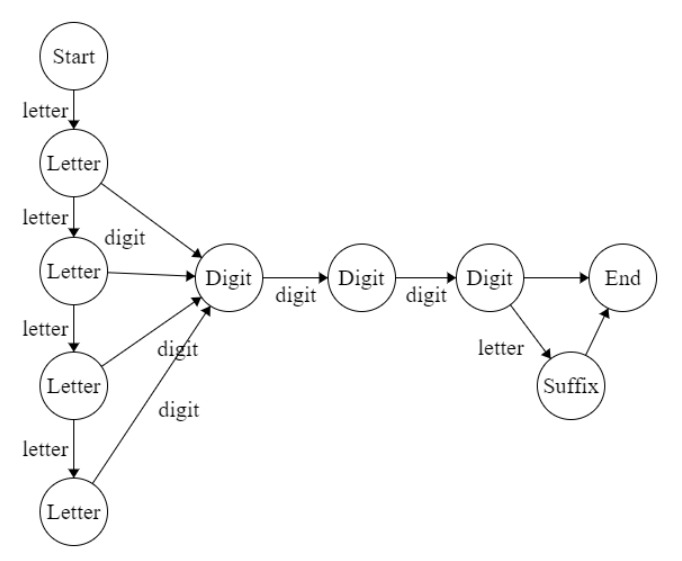
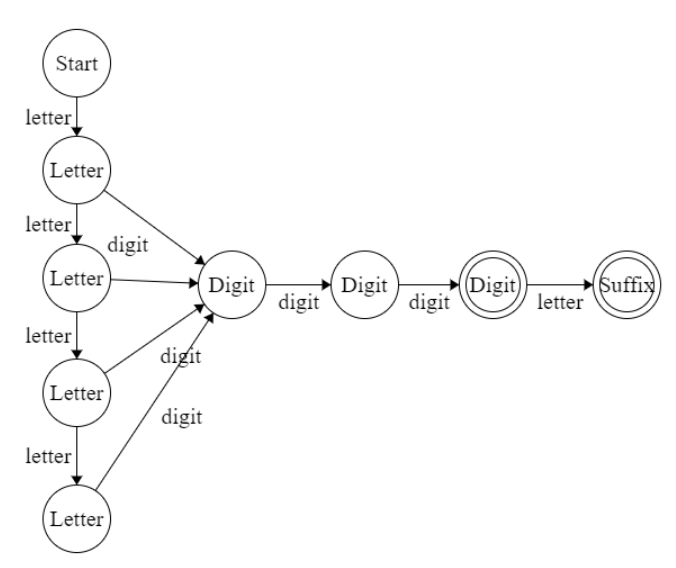
[Implementation][Test]
Finished implementing the CourseNameValidator and passed all unit tests
for the class.

Changed region(s): [[0.0311, 0.0303, 0.9941, 0.9697], [0.6834, 0.6061, 0.9009, 0.7576], [0.0932, 0.9697, 0.1243, 1.0]]

diff --git a/PackScheduler/src/edu/ncsu/csc216/pack_scheduler/course/validator/CourseNameValidator.java b/PackScheduler/src/edu/ncsu/csc216/pack_scheduler/course/validator/CourseNameValidator.java
@@ -4,6 +4,7 @@ package edu.ncsu.csc216.pack_scheduler.course.validator;
  * Checking whether a Course's Name is valid.
  * 
  * @author David Mond
+ * @author Audrey Fuelleman
  */
 public class CourseNameValidator {
 
@@ -19,14 +20,18 @@ public class CourseNameValidator {
 	 * Field to keep track of the current state.
 	 */
 	private String currentState = "I";
-	private InitialState stateInitial;
-	private LetterState stateLetter;
-	private DigitState stateDigit;
-	private SuffixState stateSuffix;
+	/** The initial state for a character in the Course's name */
+	private InitialState stateInitial = new InitialState();
+	/** The letter state for a character in the Course's name */
+	private LetterState stateLetter = new LetterState();
+	/** The digit state for a character in the Course's name */
+	private DigitState stateDigit = new DigitState();
+	/** The suffix state for a character in the Course's name */
+	private SuffixState stateSuffix = new SuffixState();
 	/**
 	 * Field to keep track if end is valid.
 	 */
-	private boolean validEndState;
+	private boolean validEndState = false;
 
 	/**
 	 * Constructor for CourseNameValidator.
@@ -50,7 +55,7 @@ public class CourseNameValidator {
 				} else if (Character.isDigit(name.charAt(i))) {
 					stateInitial.onDigit();
 				} else {
-					State.onOther();
+					stateInitial.onOther();
 				}
 			} else if ("L".equals(currentState)) {
 				if (Character.isLetter(name.charAt(i))) {
@@ -58,7 +63,7 @@ public class CourseNameValidator {
 				} else if (Character.isDigit(name.charAt(i))) {
 					stateLetter.onDigit();
 				} else {
-					State.onOther();
+					stateLetter.onOther();
 				}
 			} else if ("D".equals(currentState)) {
 				if (Character.isLetter(name.charAt(i))) {
@@ -66,7 +71,7 @@ public class CourseNameValidator {
 				} else if (Character.isDigit(name.charAt(i))) {
 					stateDigit.onDigit();
 				} else {
-					State.onOther();
+					stateDigit.onOther();
 				}
 			} else if ("S".equals(currentState)) {
 				if (Character.isLetter(name.charAt(i))) {
@@ -74,12 +79,11 @@ public class CourseNameValidator {
 				} else if (Character.isDigit(name.charAt(i))) {
 					stateSuffix.onDigit();
 				} else {
-					State.onOther();
+					stateSuffix.onOther();
 				}
 			}
-
 		}
-		return false;
+		return validEndState;
 	}
 
 	/**
@@ -95,24 +99,20 @@ public class CourseNameValidator {
 
 		/**
 		 * Checks to see if char is a letter.
-		 * 
-		 * @return boolean which represents if letter or not.
-		 * @throws InvalidTransitionException
+		 * @throws InvalidTransitionException throws exception for the next character being invalid.
 		 */
 		public abstract void onLetter() throws InvalidTransitionException;
 
 		/**
 		 * Checks to see if char is a digit.
-		 * 
-		 * @return boolean which represents if digit or not.
-		 * @throws InvalidTransitionException
+		 * @throws InvalidTransitionException throws exception for the next character being invalid.
 		 */
 		public abstract void onDigit() throws InvalidTransitionException;
 
 		/**
 		 * If not digit or letter than onOther.
 		 * 
-		 * @throws InvalidTransitionException Throws exception for invalid input.
+		 * @throws InvalidTransitionException throws exception for the next character being invalid.
 		 */
 		public void onOther() throws InvalidTransitionException {
 			throw new InvalidTransitionException("Course name can only contain letters and digits.");
@@ -142,10 +142,10 @@ public class CourseNameValidator {
 		/**
 		 * Checks to see if char is a digit.
 		 * 
-		 * @throws InvalidTransitionException
+		 * @throws InvalidTransitionException throws exception for the next character being invalid.
 		 */
 		public void onDigit() throws InvalidTransitionException {
-			throw new InvalidTransitionException("Course name must start with a letter.");
+			throw new InvalidTransitionException("Invalid transition.");
 		}
 	}
 
@@ -185,20 +185,17 @@ public class CourseNameValidator {
 		 */
 		@Override
 		public void onDigit() throws InvalidTransitionException{
-			digitCount++;
 			if (letterCount == 0) {
 				throw new InvalidTransitionException("Invalid FSM transition.");
+			}
+			digitCount++;
+			currentState = "D";
 		}
-			currentState = "N";
 	}
 	/**
 	 * DigitState class, third state, extends state.
 	 */
 	public class DigitState extends State {
-		/**
-		 * Constant for Course Number Length.
-		 */
-		private static final int COURSE_NUMBER_LENGTH = 8;
 		/**
 		 * Constructor for DigitState.
 		 */
@@ -207,11 +204,12 @@ public class CourseNameValidator {
 		}
 		/**
 		 * Checks to see if char is a letter.
-		 * @throws InvalidTransitionException 
+		 * @throws InvalidTransitionException throws exception for the next character being invalid.
 		 */
 		public void onLetter() throws InvalidTransitionException {
 			if(digitCount == 3) {
 				currentState = "S";
+				validEndState = true;
 			}
 			else {
 				throw new InvalidTransitionException("Invalid transition.");
@@ -219,13 +217,16 @@ public class CourseNameValidator {
 		}
 		/**
 		 * Checks to see if char is a digit.
-		 * @throws InvalidTransitionException 
+		 * @throws InvalidTransitionException throws exception for the next character being invalid.
 		 */
 		public void onDigit() throws InvalidTransitionException {
 			if(digitCount == 3) {
 				throw new InvalidTransitionException("Invalid transition.");
 			}
 			digitCount += 1;
+			if (digitCount == 3) {
+				validEndState = true;
+			}
 		}
 	}
 	/**
@@ -240,15 +241,18 @@ public class CourseNameValidator {
 		}
 		/**
 		 * Checks to see if char is a letter.
+		 *@throws InvalidTransitionException throws exception if there is another character.
 		 */
-		public void onLetter() {
-			
+		public void onLetter() throws InvalidTransitionException {
+			throw new InvalidTransitionException("Invalid transition.");
 		}
 		/**
 		 * Checks to see if char is a digit.
+		 * @throws InvalidTransitionException throws exception if there is another character.
 		 */
-		public void onDigit() {
-			
+		public void onDigit() throws InvalidTransitionException {
+			throw new InvalidTransitionException("Invalid transition.");
 		}
 	}
 }
+	

diff --git a/PackScheduler/test/edu/ncsu/csc216/pack_scheduler/course/validator/CourseNameValidatorTest.java b/PackScheduler/test/edu/ncsu/csc216/pack_scheduler/course/validator/CourseNameValidatorTest.java
@@ -1,5 +1,189 @@
 package edu.ncsu.csc216.pack_scheduler.course.validator;
 
+import static org.junit.jupiter.api.Assertions.assertEquals;
+import static org.junit.jupiter.api.Assertions.assertThrows;
+import static org.junit.jupiter.api.Assertions.assertTrue;
+
+import org.junit.jupiter.api.Test;
+
+/**
+ * Tests the CourseNameValidator for all possible states and transitions.
+ * @author Audrey Fuelleman
+ */
 public class CourseNameValidatorTest {
+	
+	/** Create an instance of CourseNameValidator for testing. */
+	private CourseNameValidator fsm = new CourseNameValidator();
+	
+	/**
+	 * Test the FSM state and transitions for a course with one letter.
+	 * @throws InvalidTransitionException if state transition is invalid.
+	 */
+	@Test
+	public void testStateL() {
+		
+		try {
+			assertTrue(fsm.isValid("E115"));
+		} catch (InvalidTransitionException e) {
+			
+			// Do nothing
+		}
+		
+	}
+	
+	/**
+	 * Test the FSM state and transitions for a course with two letters.
+	 * @throws InvalidTransitionException if state transition is invalid.
+	 */
+	@Test
+	public void testStateLL(){
+		
+		try {
+			assertTrue(fsm.isValid("CS100"));
+		} catch (InvalidTransitionException e) {
+			
+			// Do nothing
+		}
+		
+	}
+	
+	/**
+	 * Test the FSM state and transitions for a course with three letters.
+	 * @throws InvalidTransitionException if state transition is invalid.
+	 */
+	@Test
+	public void testStateLLL(){
+		
+		try {
+			assertTrue(fsm.isValid("CSC116"));
+		} catch (InvalidTransitionException e) {
+			
+			// Do nothing
+		}
+		
+	}
+	
+	/**
+	 * Test the FSM state and transitions for a course with four letters.
+	 * @throws InvalidTransitionException if state transition is invalid.
+	 */
+	@Test
+	public void testStateLLLL(){
+		
+		try {
+			assertTrue(fsm.isValid("HESF101"));
+		} catch (InvalidTransitionException e) {
+			
+			// Do nothing
+		}
+		
+	}
+	
+	/**
+	 * Test the FSM state and transitions for a course with a suffix letter.
+	 * @throws InvalidTransitionException if state transition is invalid.
+	 */
+	@Test
+	public void testStateSuffix(){
+		
+		try {
+			assertTrue(fsm.isValid("CSC116A"));
+		} catch (InvalidTransitionException e) {
+			
+			// Do nothing
+		}
+		
+	}
+	
+	/**
+	 * Test the FSM state and transitions for a course with one digit.
+	 */
+	@Test
+	public void testStateD(){
+		
+		Exception e = assertThrows(InvalidTransitionException.class,
+				() -> fsm.isValid("CSC1A"));
+		
+		assertEquals("Invalid transition.", e.getMessage());
+		
+	}
+	
+	/**
+	 * Test the FSM state and transitions for a course with two digits.
+	 */
+	@Test
+	public void testStateDD(){
+		
+		Exception e = assertThrows(InvalidTransitionException.class,
+				() -> fsm.isValid("CSC11A"));
+		
+		assertEquals("Invalid transition.", e.getMessage());
+	}
+	
+	/**
+	 * Test the FSM state and transitions for a course with more than three digits.
+	 */
+	@Test
+	public void testStateTooManyDigits(){
+		
+		Exception e = assertThrows(InvalidTransitionException.class,
+				() -> fsm.isValid("CSC1116"));
+		
+		assertEquals("Invalid transition.", e.getMessage());
+	}
+	
+	/**
+	 * Test the FSM state and transitions with an invalid character.
+	 */
+	@Test
+	public void testInvalidChar() {
+		
+		Exception e = assertThrows(InvalidTransitionException.class,
+				() -> fsm.isValid("CSC!116"));
+		
+		assertEquals("Invalid transition.", e.getMessage());
+	}
+	
+	/**
+	 * Test the FSM state and transitions with a course starting with a digit.
+	 */
+	@Test
+	public void testStartWithDigit() {
+		
+		Exception e = assertThrows(InvalidTransitionException.class,
+				() -> fsm.isValid("116CSC"));
+
+		assertEquals("Invalid transition.", e.getMessage());
+	}
+	
+	/**
+	 * Test the FSM state and transitions with a course with more than four letters.
+	 */
+	@Test
+	public void testTooManyLetters() {
+		
+		Exception e = assertThrows(InvalidTransitionException.class,
+				() -> fsm.isValid("HESFA101"));
+
+		assertEquals("Invalid transition.", e.getMessage());
+	}
+	
+	/**
+	 * Test the FSM state and transitions with a course that has a suffix letter followed
+	 * by another letter or another digit.
+	 */
+	@Test
+	public void testInvalidSuffix() {
+		
+		Exception e1 = assertThrows(InvalidTransitionException.class,
+				() -> fsm.isValid("CSC116AB"));
+		
+		assertEquals("Invalid transition.", e1.getMessage());
+		
+		Exception e2 = assertThrows(InvalidTransitionException.class,
+				() -> fsm.isValid("CSC116A1"));
+
+		assertEquals("Invalid transition.", e2.getMessage());
+	}
 
 }
